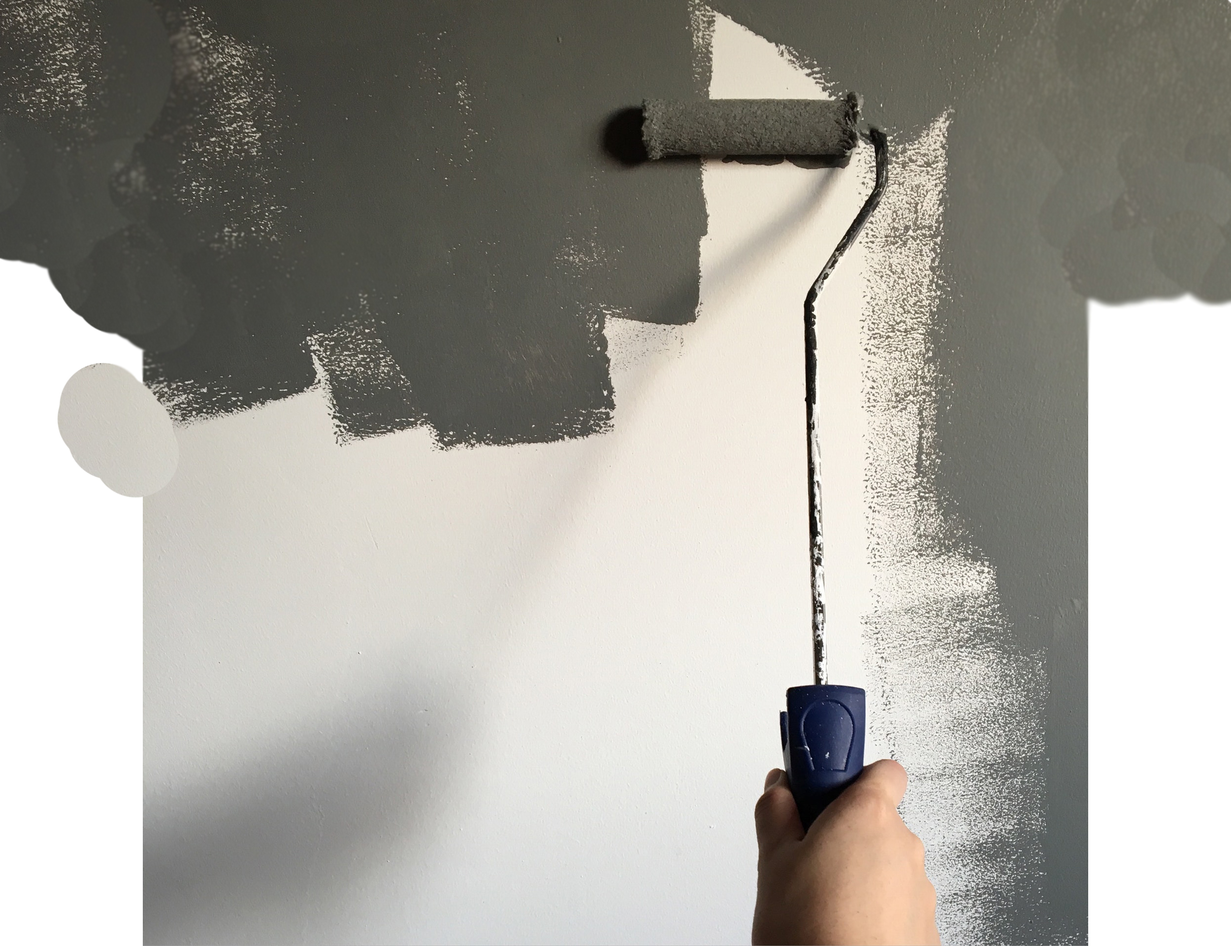
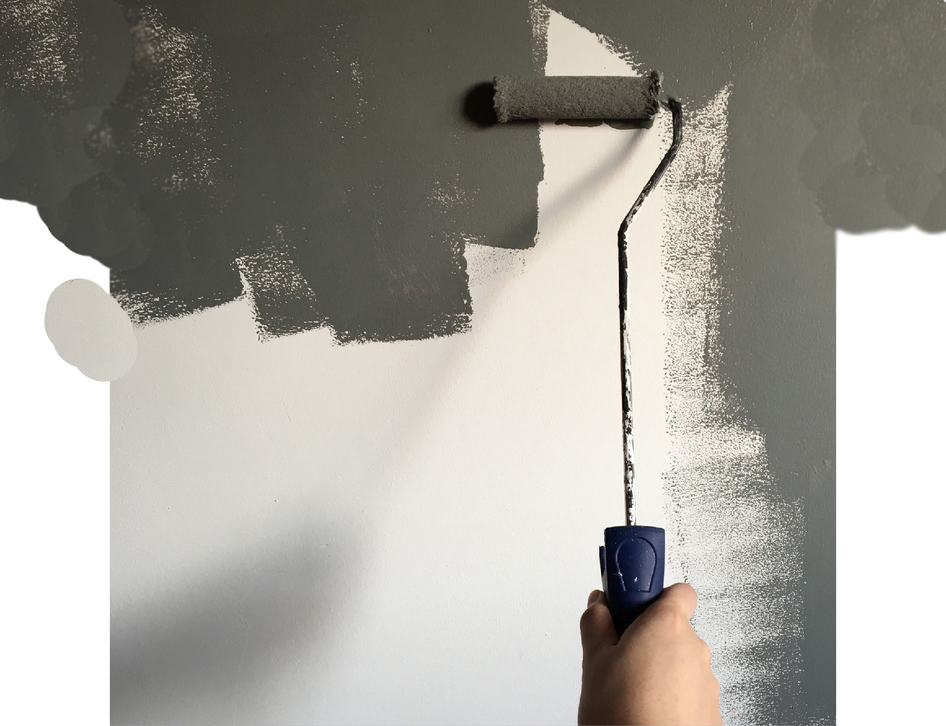
21/10/2020 - Warnings + img reduction

diff --git a/src/compontents/LegalTexts.js b/src/compontents/LegalTexts.js
@@ -1,7 +1,7 @@
 import React, { useState, useEffect } from "react";
 import { Link } from "react-router-dom";
 import { LangContext } from "../lang-context";
-import { Button, Modal, ModalHeader, ModalBody, ModalFooter } from "reactstrap";
+// import { Button, Modal, ModalHeader, ModalBody, ModalFooter } from "reactstrap";
 import "./LegalTexts.css";
 import ie from "../assets/img/legal/browsers/ie.png";
 import ch from "../assets/img/legal/browsers/ch.png";
@@ -335,7 +335,7 @@ const _1 = props => (
       <li>
         <b>Cesión de datos</b>: Los datos personales serán tratados a través de
         servidores gestionados por{" "}
-        <a href="https://www.ionos.es/" target="_blank">
+        <a href="https://www.ionos.es/" target="_blank" rel="noopener noreferrer">
           1&amp;1
         </a>
         , que tendrá la consideración de Encargado del Tratamiento.
@@ -555,7 +555,7 @@ const _1 = props => (
     <p>
       Esta política de privacidad y de protección de datos ha sido redactada por
       EXPERTOS LOPD®,{" "}
-      <a href="https://www.expertoslopd.es/" target="_blank">
+      <a href="https://www.expertoslopd.es/" target="_blank" rel="noopener noreferrer">
         empresa de protección de datos
       </a>
       , a día 23:13 , y podrá variar en función de los cambios de normativa y

diff --git a/src/compontents/Contact.js b/src/compontents/Contact.js
@@ -7,7 +7,7 @@ import {
   Col,
   Spinner,
   UncontrolledPopover,
-  PopoverHeader,
+  // PopoverHeader,
   PopoverBody
 } from "reactstrap";
 import { Formik, ErrorMessage } from "formik";
@@ -104,6 +104,7 @@ const Contact = props => {
                 <a
                   id="map-link"
                   target="_blank"
+                  rel="noopener noreferrer"
                   href="https://www.google.com/maps/place/Reformas+Preintser+Multiservicios,+SLU./@41.4036787,2.1797739,16z/data=!4m5!3m4!1s0x12a4a2df04318e79:0xa5d6a721c64de2a7!8m2!3d41.403481!4d2.182545"
                 >
                   <div id="map-link-btn">{lang.contact.box.map}</div>
@@ -313,9 +314,9 @@ const Transports = () => {
           >
             Metro
           </p>
-          <img src={L1} />
+          <img src={L1} alt=""/>
           <p style={{ fontSize: "1rem", marginBottom: ".7rem" }}>Glòries</p>
-          <img src={L2} />
+          <img src={L2} alt=""/>
           <p style={{ fontSize: "1rem" }}>Encants</p>
           <p style={{ fontSize: "1rem" }}>Monumental</p>
         </Col>

diff --git a/src/compontents/Footer.js b/src/compontents/Footer.js
@@ -37,7 +37,7 @@ const Footer = props => {
             <span onClick={toggle}>{lang.footer.legal[3]}</span>{" "}
           </div>
           <div className="footer-item">
-            <a target="_blank" href="https://github.com/artagok">
+            <a target="_blank" href="https://github.com/artagok" rel="noopener noreferrer">
               <span>{`By Artagok `}</span>
               <i className="fa fa-github-alt" aria-hidden="true"></i>
             </a>
@@ -50,7 +50,7 @@ const Footer = props => {
             size="lg"
           >
             <ModalBody>
-              <img src={certificate} width="80%" />
+              <img src={certificate} width="80%" alt=""/>
             </ModalBody>
           </Modal>
         </div>

diff --git a/src/compontents/Navbar.js b/src/compontents/Navbar.js
@@ -8,7 +8,7 @@ import {
   NavbarBrand,
   Nav,
   NavItem,
-  NavLink,
+  // NavLink,
   Dropdown,
   DropdownToggle,
   DropdownMenu,
@@ -32,7 +32,7 @@ const Navbar = props => {
 
   window.onscroll = () => {
     setScrollStyle(
-      window.pageYOffset == 0
+      window.pageYOffset === 0
         ? [{width: "18rem"}, {fontSize: "1.5rem"}]
         : [{width: "8rem"}, {fontSize: "1.25rem"}]);
   };
